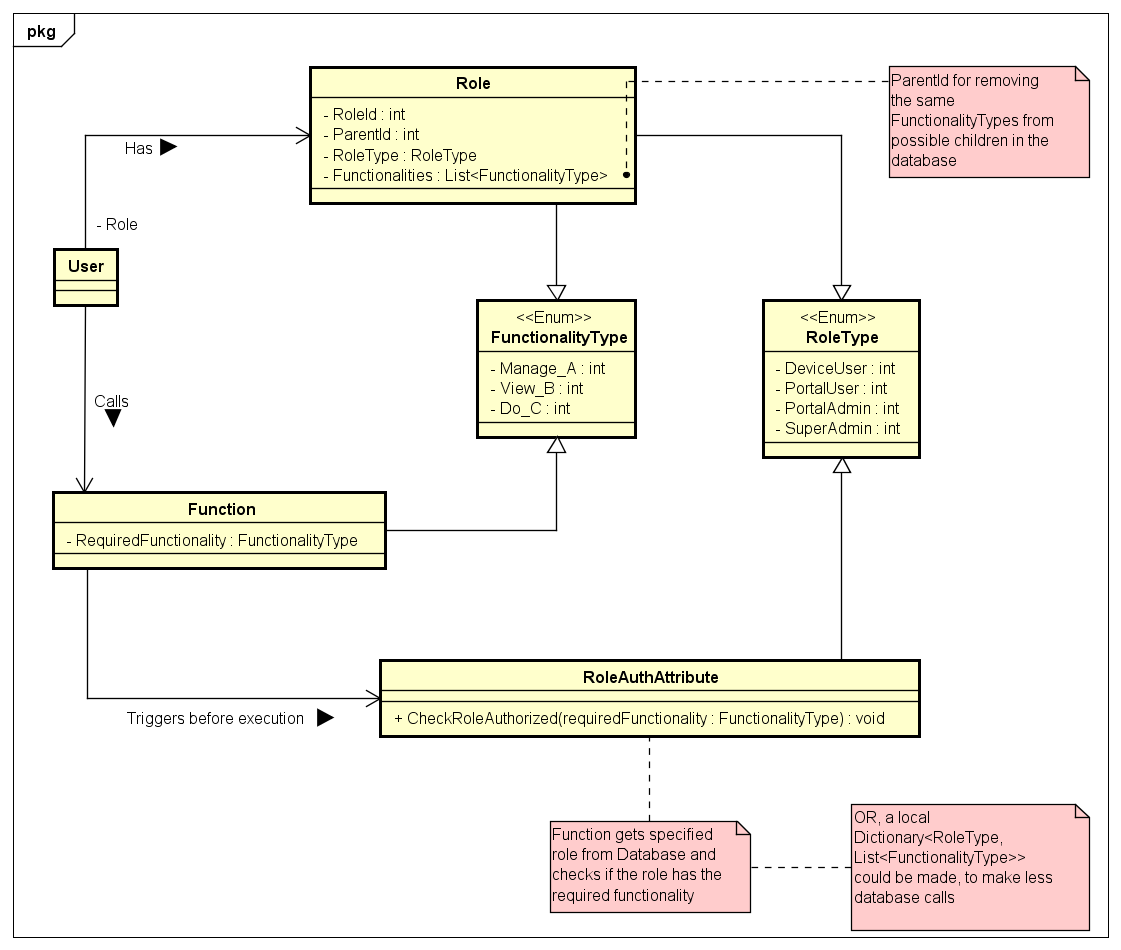
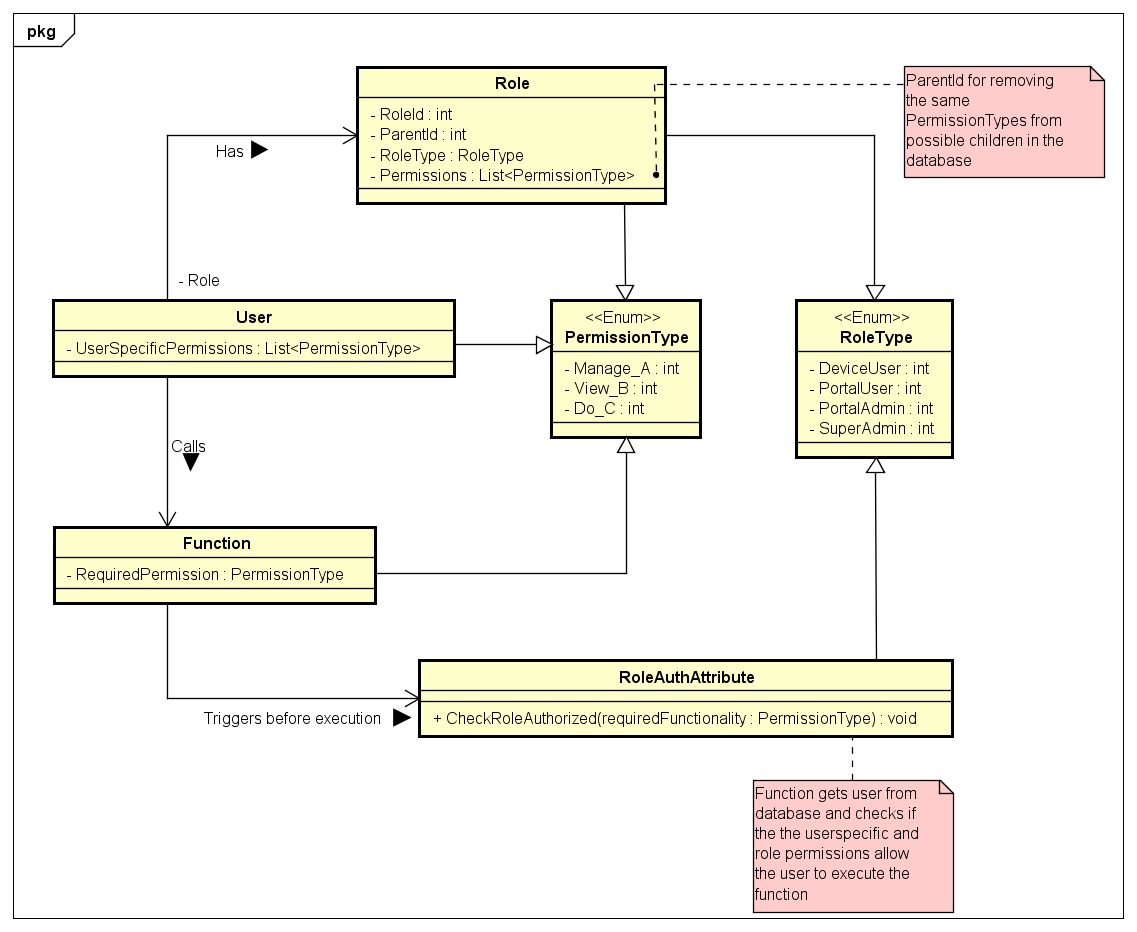
Opzet rol machtiging onderzoek

diff --git a/Onderzoek/Rol_Machtigingen_Onderzoek.md b/Onderzoek/Rol_Machtigingen_Onderzoek.md
@@ -1,14 +1,11 @@
-#Hoofdvraag: Hoe kan ik een gebruiker alleen een functionaliteit uit laten voeren wanneer hij een bepaalde machtiging heeft?
+# Hoofdvraag: Hoe kan ik toegangscontrole voor gebruikers implementeren?
 >   Het doel is om een gebruiker bepaalde machtigingen te geven om dingen te doen in de applicatie. Zo mag een gebruiker met een machtiging tot bijvoorbeeld magazijnadministratie de voorraad van het magazijn zien en beheren. Een gebruiker die niet deze machtiging heeft mag het bijvoorbeeld alleen bekijken en niet beheren.
 
-#Deelvraag 1: Wat is de beste manier om iemand machtigingen te geven?
+# Deelvraag 1: Wat is de beste manier om iemand machtigingen te geven?
 >   Hiervoor heb ik eerst zelf een implementatie bedacht en mijn idee uitgewerkt in pseudo-UML. [Hier](./Rol_Machtigingen_Idee.png) is een PNG van dit diagram. 
 
-#Deelvraag 2: Hoe kan ik een filter voor een functionaliteit zetten?
+# Deelvraag 2: Hoe kan ik een filter voor een functionaliteit zetten?
+>   Voor deze vraag heb ik een klein bibliotheekonderzoek gedaan, ik heb op google gezocht met de query: "c# mvc role authorization". Hierdoor kwam ik op een [example](https://www.c-sharpcorner.com/UploadFile/rahul4_saxena/role-based-access-of-an-mvc-application/) uit waarin stond dat je ook zelf een AuthorizeAttribute kan maken door van deze klasse te erven. Na dit gelezen te hebben heb ik een klein labonderzoek uitgevoerd om te testen of dit daadwerkelijk kon waaruit bleek dat dit ook echt kan.
 
-
-#Deelvraag 3: Hoe kan ik de machtigingen van een gebruiker controleren?
-
-
-#Deelvraag 4: Hoe kan ik overerving toepassen op bepaalde, maar niet alle rollen?
-
+# Deelvraag 4: Hoe kan ik overerving toepassen op bepaalde, maar niet alle rollen?
+>   Het doel is om hierarchische relaties tussen bepaalde rollen te kunnen maken zodat het mogelijk is om wanneer je een machtiging uit een bepaalde rol haalt, bij de children van deze rol de machtigingen ook worden weggehaald. Als je op google zoekt naar "sql child parent relationships" is vrijwel het eerste wat je tegen komt het gebruik van een parentId. Dit is de simpelste en ook een goede oplossing voor deze use case. Aangezien je alleen, als er überhaupt een child is, het Id van de parent aan parentId hoeft te linken.
